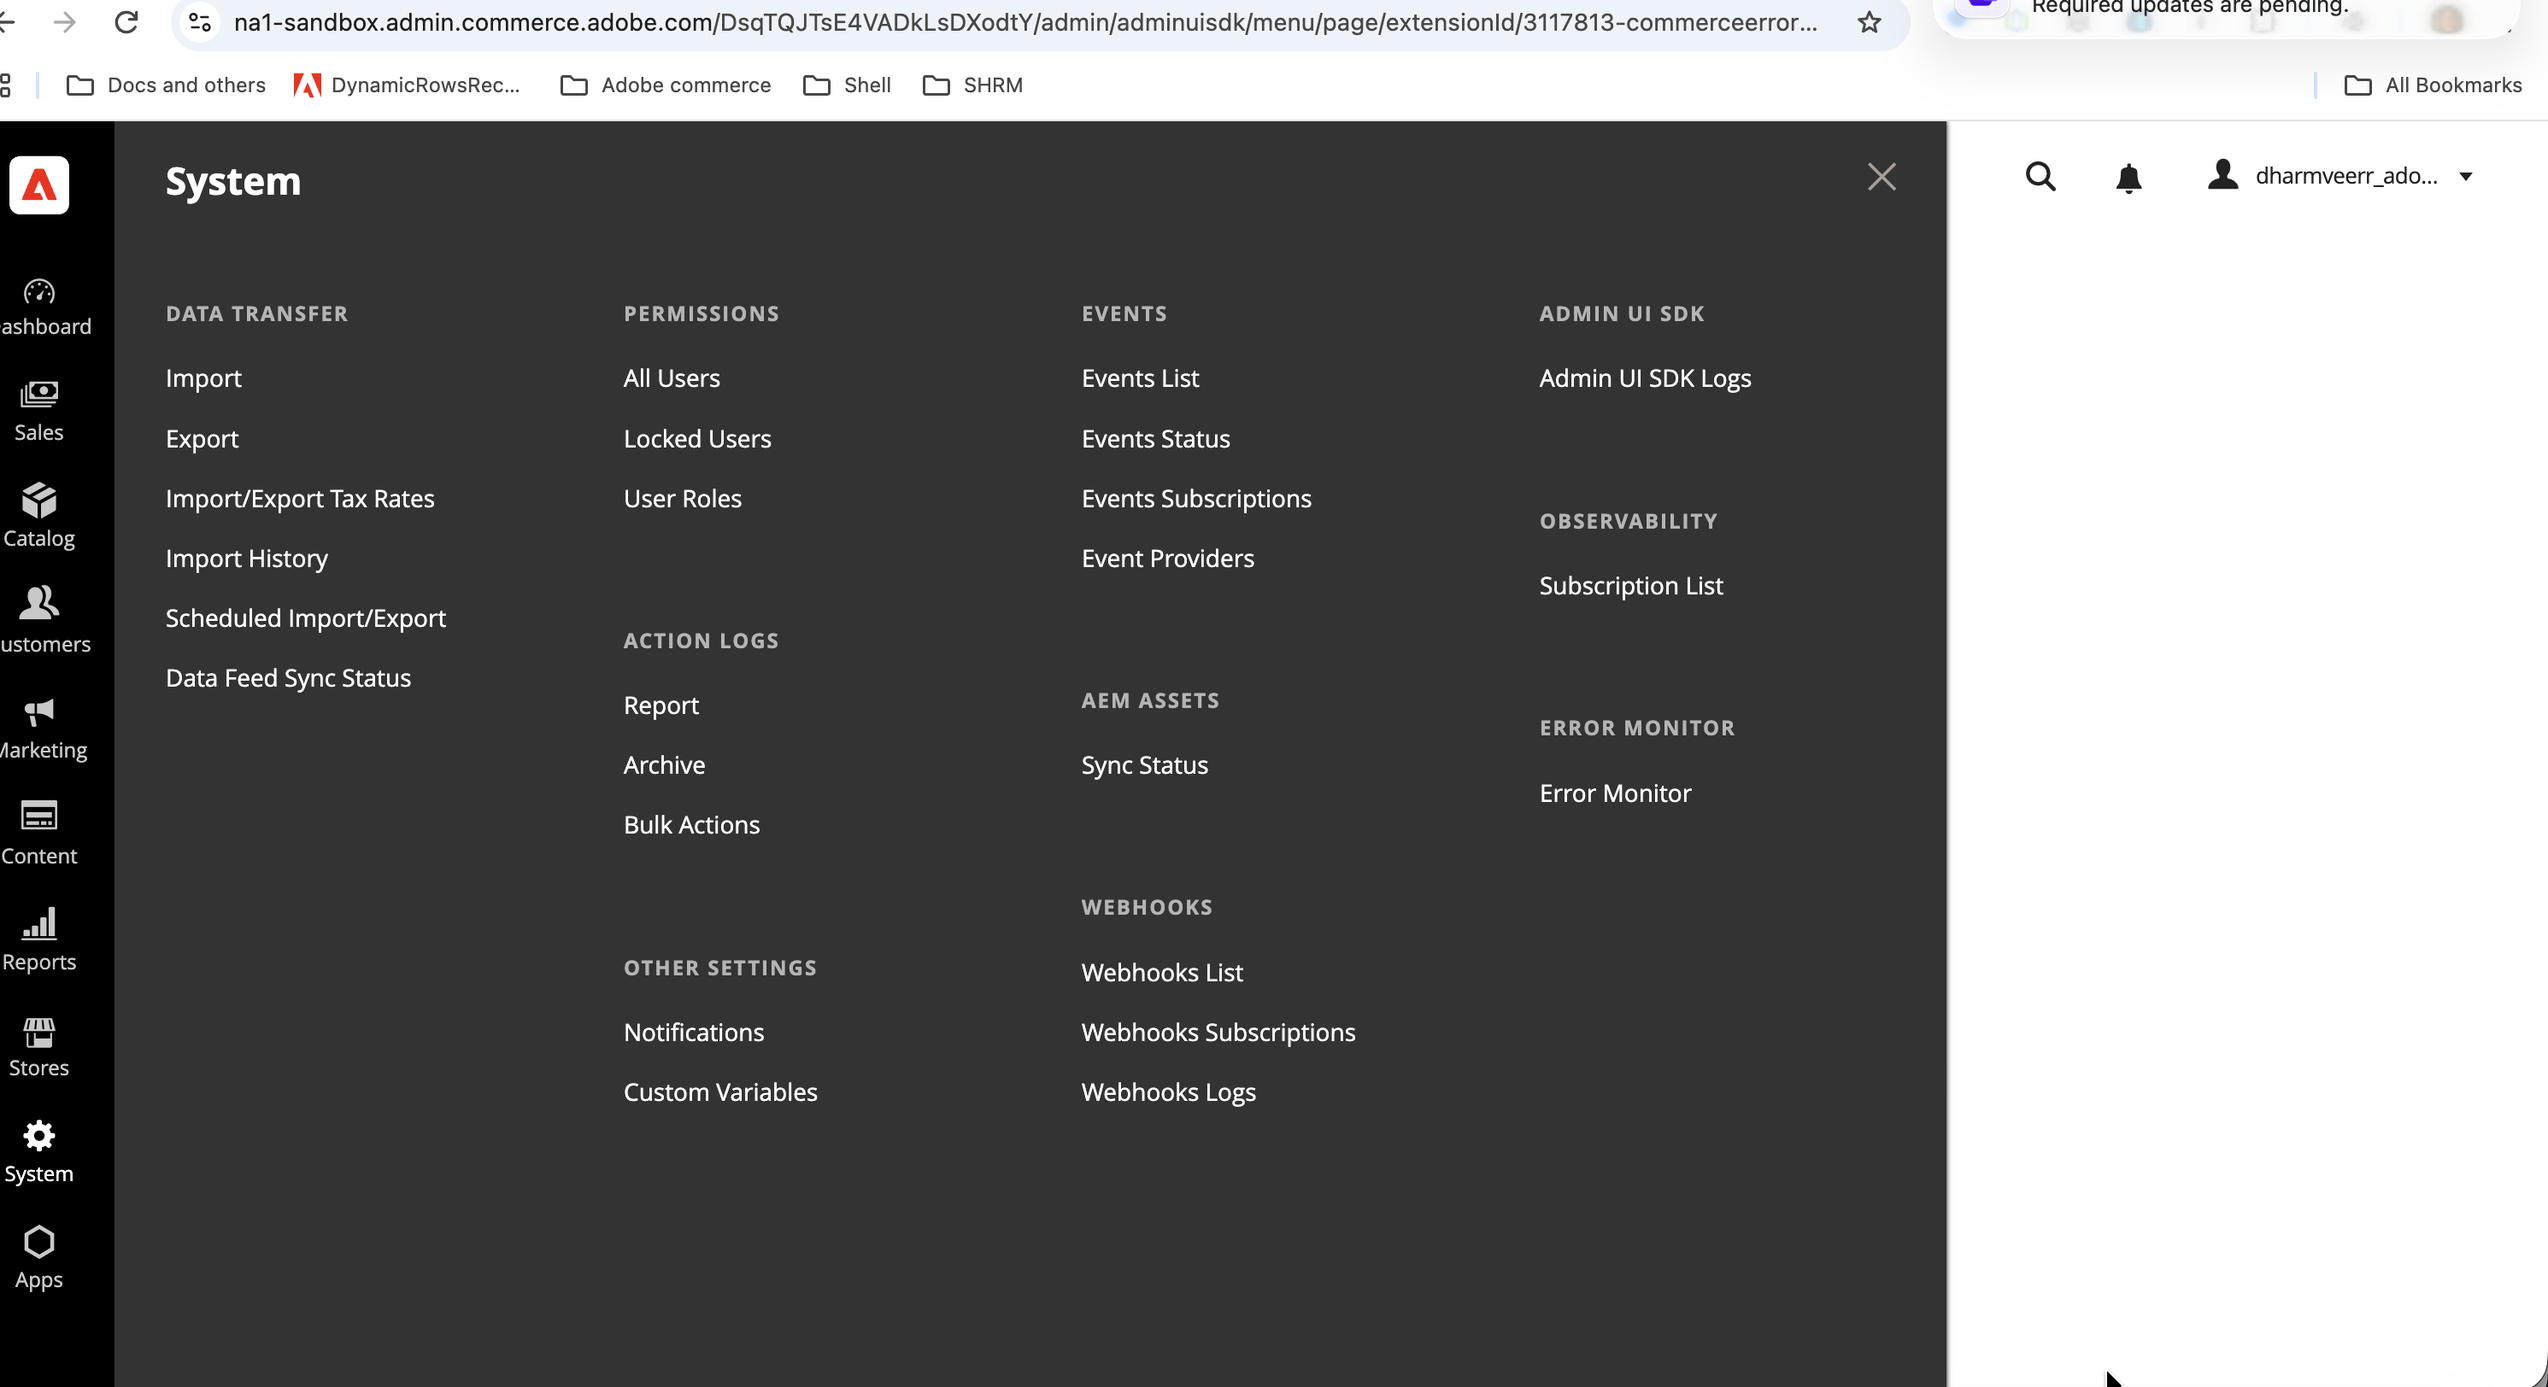
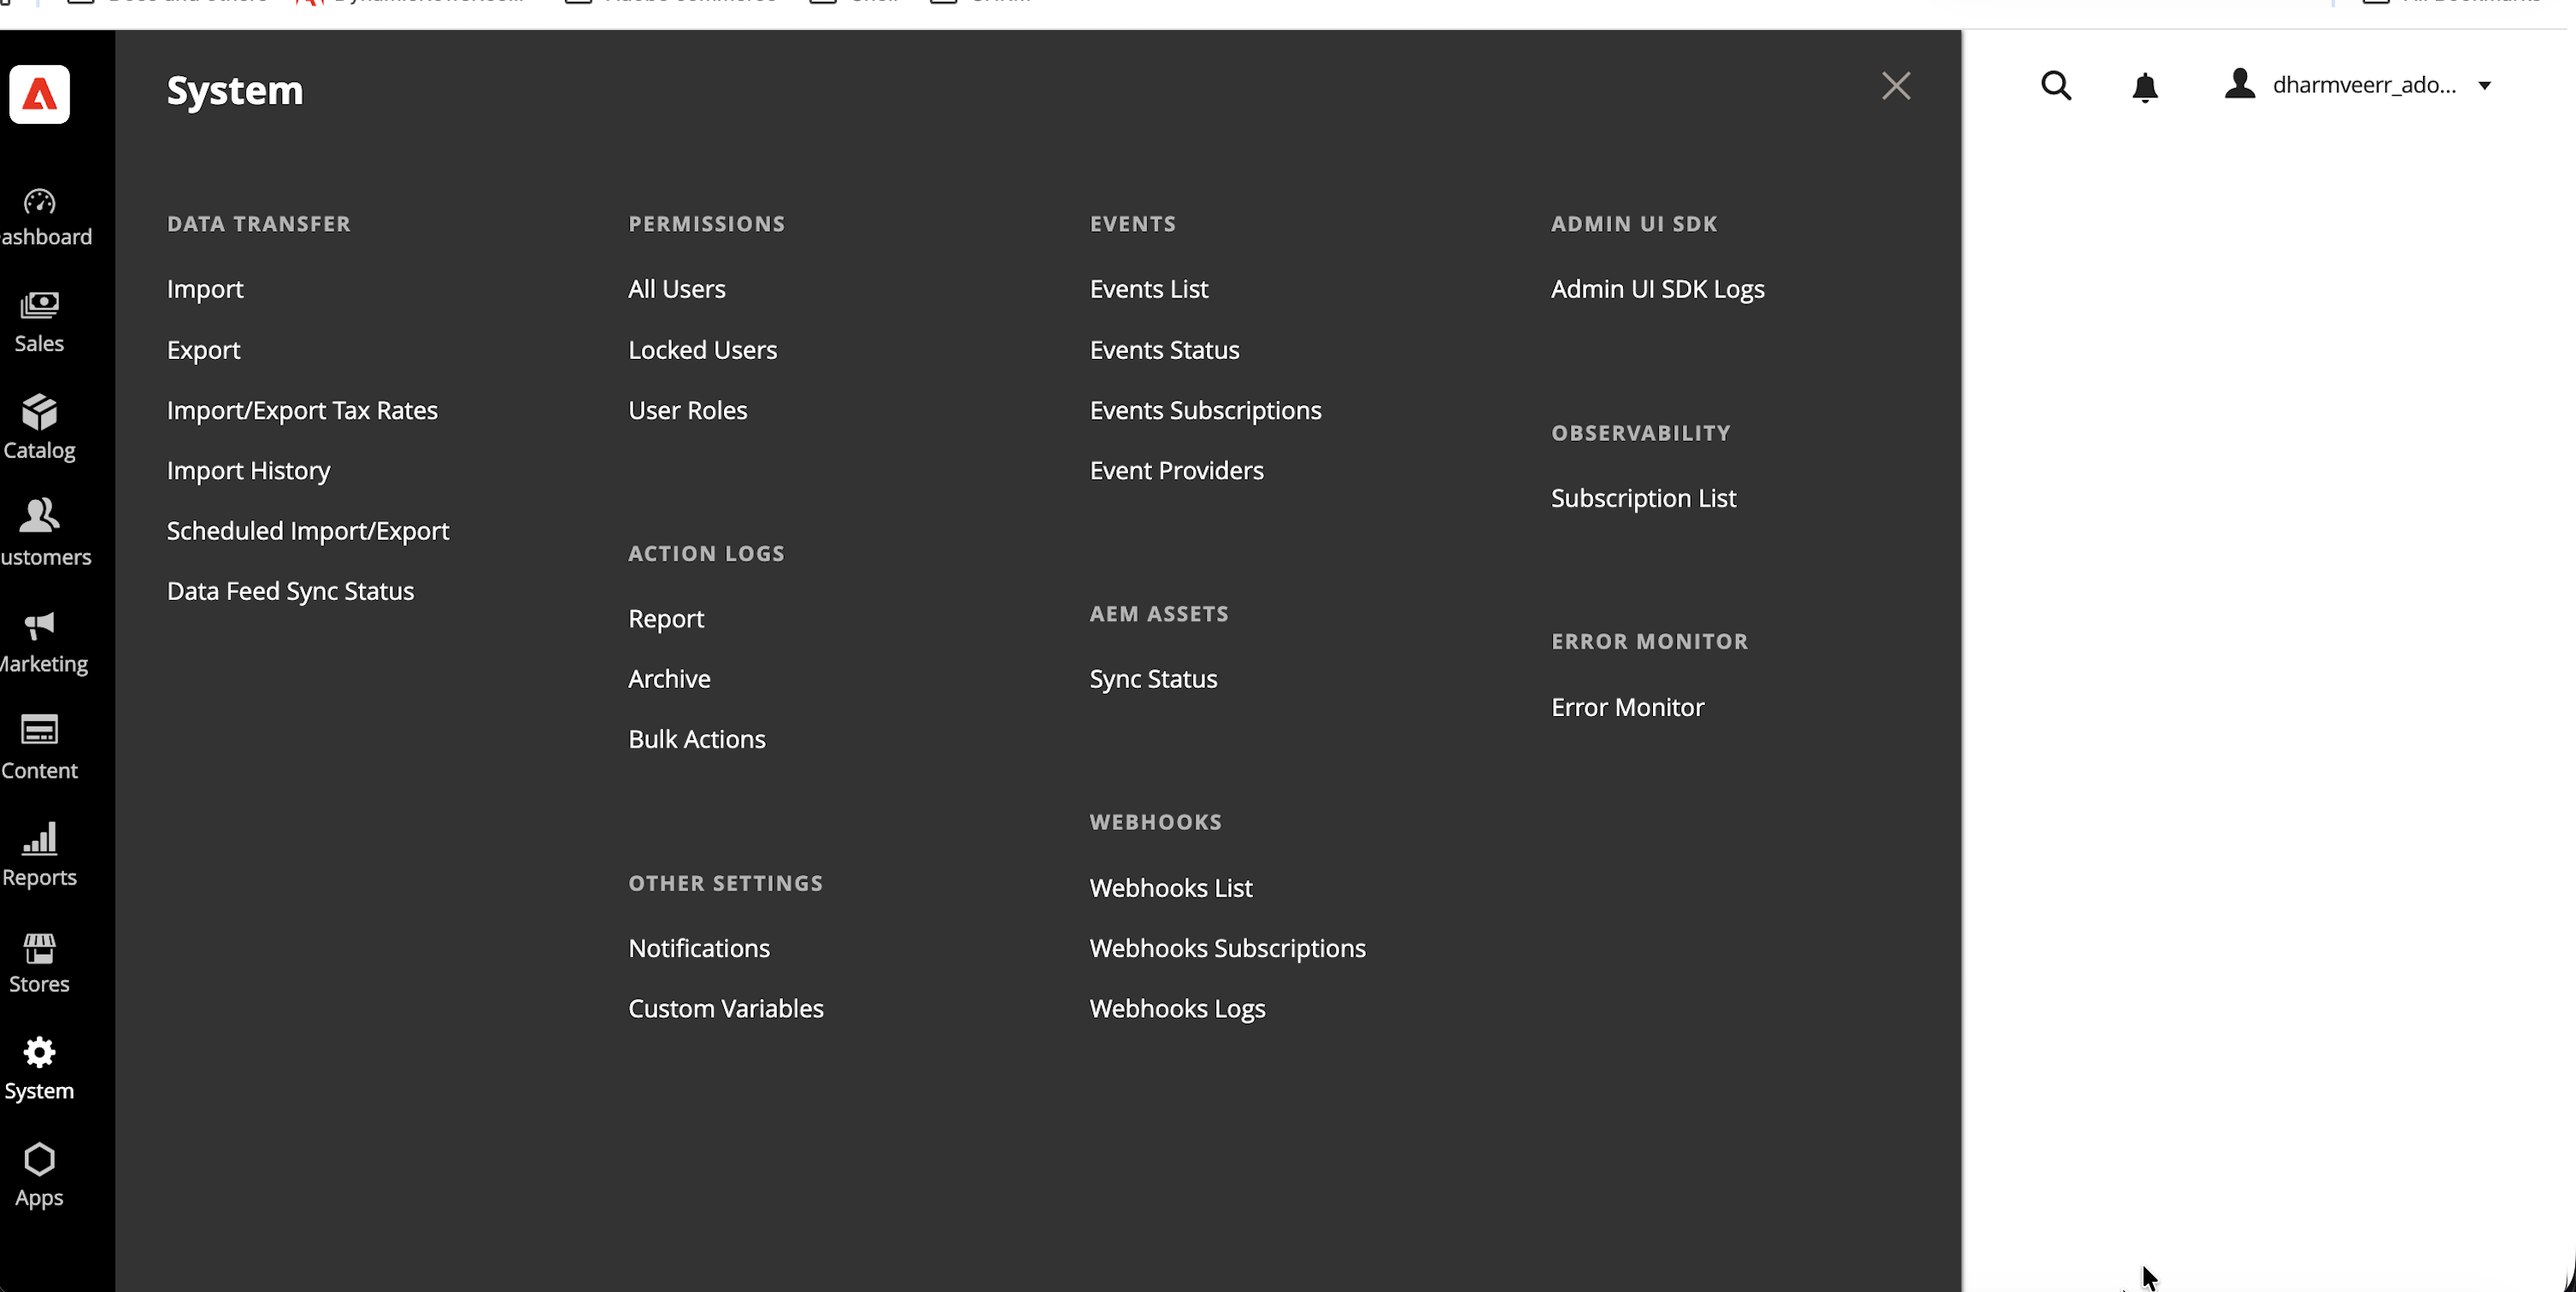
Documents updated

diff --git a/docs/test-results.md b/docs/test-results.md
@@ -116,15 +116,3 @@ The app adds **Error Monitor** under **System** in the Commerce Admin menu.
 The dashboard lists recent errors, newest first, with a count per severity. It shows errors from the sample app (`orders-sync`, `validate-cart`) and from the deployment checks. The token in the `validate-cart` message is shown as `[REDACTED]`.
 
 ![Dashboard listing recent errors with severity counts](screenshots/dashboard-recent-errors.png)
-
-### 6.4 Dashboard: masked sensitive values
-
-Three errors reported by the sample app `orders-sync` action:
-
-| Error | What it shows |
-|---|---|
-| `ErrorResponse (503)` | A returned server error is recorded, not only thrown errors |
-| `Error` | The email and the bearer token are masked: `[REDACTED_EMAIL]`, `Bearer [REDACTED]` |
-| `RangeError` | A normal thrown error |
-
-![Dashboard showing errors with masked email and token](screenshots/dashboard-masked-errors.png)

diff --git a/docs/demo-guide.md b/docs/demo-guide.md
@@ -73,10 +73,6 @@ aio runtime activation result --last
 
 **Expected:** the action returns its own `503` response unchanged. The dashboard shows an `ErrorResponse (503)` entry with the message `Action returned HTTP 503: Order service is unavailable`.
 
-After steps 3–5, the dashboard looks like this (newest first): the `503` response, the masked email and token, and the `RangeError`.
-
-![Dashboard after steps 3 to 5](screenshots/dashboard-masked-errors.png)
-
 ## 6. Commerce webhook behaviour
 
 `validate-cart` is a Commerce webhook example protected by Adobe IMS. Call it with your own IMS token (replace the URL with the one shown by `aio app get-url`):

diff --git a/README.md b/README.md
@@ -31,10 +31,6 @@ Built for **Adobe Commerce as a Cloud Service (ACCS)**, including sandbox instan
 
 ![Dashboard listing recent errors](docs/screenshots/dashboard-recent-errors.png)
 
-**4. Sensitive values masked** (email and bearer token)
-
-![Dashboard showing masked email and token](docs/screenshots/dashboard-masked-errors.png)
-
 ## Architecture
 
 ```mermaid
